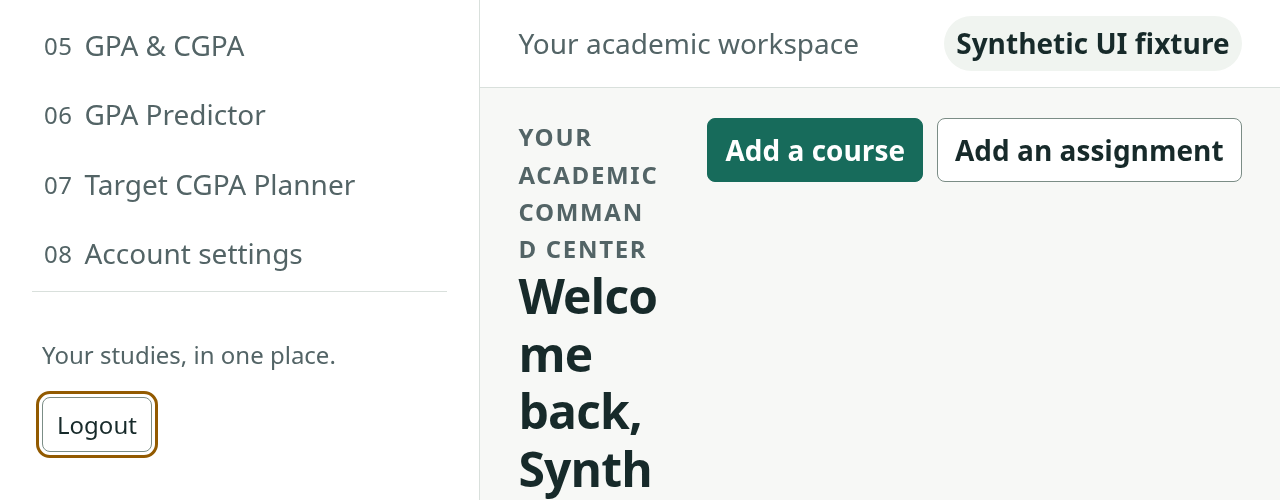
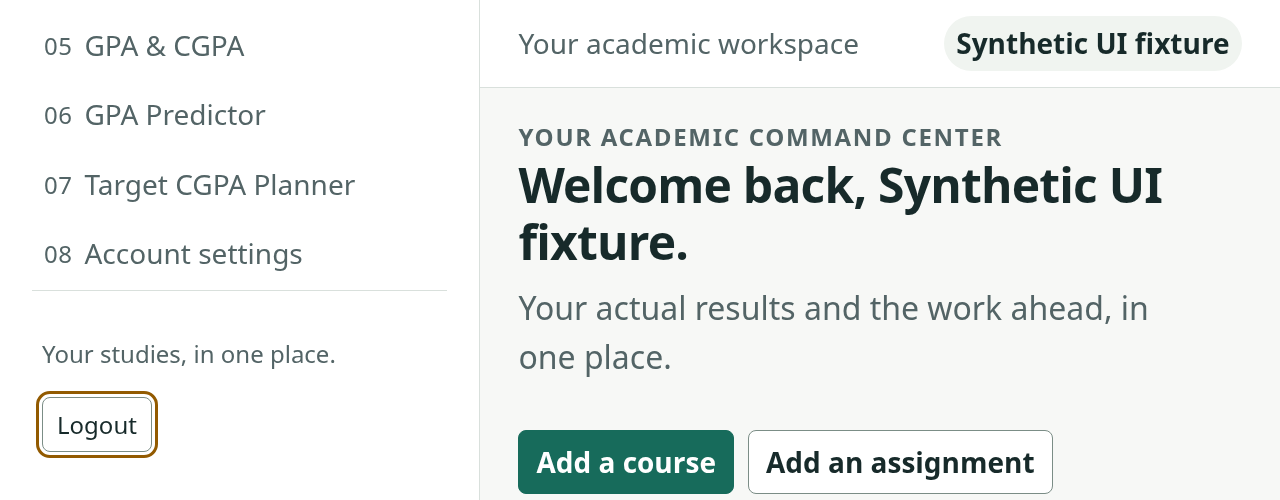
fix(ui): preserve enlarged heading readability and hash browser test dependencies

diff --git a/server/student_web/static/student_web/site.css b/server/student_web/static/student_web/site.css
@@ -13,6 +13,8 @@
   --color-border-subtle:#D9E0DC;
   --color-border-control:#7B8D86;
   --color-focus:#925A00;
+  --color-focus-inverse:#E8B75C;
+  --color-shadow:rgb(23 42 42 / 2%);
   --color-success-text:#146344;
   --color-success-bg:#E7F4EC;
   --color-warning-text:#7A4B00;
@@ -136,9 +138,9 @@ a,button,summary {
   background:var(--accent);
   color:var(--color-on-primary);
   border-radius:12px;
-  flex:0 0 42px;
-  width:42px;
-  height:42px;
+  flex:0 0 2.625rem;
+  width:2.625rem;
+  height:2.625rem;
   font-weight:800;
   letter-spacing:-1px
 }
@@ -170,6 +172,7 @@ a,button,summary {
   color:var(--color-active-text);
   font-weight:700
 }
+.nav-link.active:hover { text-decoration:underline; text-decoration-thickness:2px; }
 .nav-mark {
   font-size:.75rem;
   color:inherit;
@@ -256,7 +259,7 @@ a,button,summary {
 .hero .eyebrow {
   color:var(--color-inverse-text)
 }
-.hero :focus-visible { outline-color:#E8B75C; }
+.hero :focus-visible { outline-color:var(--color-focus-inverse); }
 .hero-link {
   color:var(--color-surface);
   font-weight:650
@@ -342,7 +345,7 @@ h3 {
   border-radius:var(--radius);
   margin-bottom:24px;
   min-width:0;
-  box-shadow:0 2px 6px #17243b03
+  box-shadow:0 2px 6px var(--color-shadow)
 }
 .two-columns {
   display:grid;
@@ -393,7 +396,7 @@ h3 {
   background:var(--color-error-text);
   border-color:var(--color-error-text)
 }
-.button.danger:hover { background:var(--color-error-text); border-color:var(--color-error-text); }
+.button.danger:hover { background:var(--color-error-text); border-color:var(--color-error-text); text-decoration:underline; }
 .button:disabled {
   opacity:.55;
   cursor:not-allowed
@@ -936,8 +939,7 @@ legend {
   .action-row>.button {
     width:100%
   }
-  .hero :focus-visible { outline-color:#E8B75C; }
-.hero-link {
+  .hero-link {
     padding:5px 0
   }
   .deadline-list li {
@@ -1006,9 +1008,11 @@ legend {
 }
 
 /* Existing page composition stays intact in UI1. */
-.dashboard-heading { align-items:flex-start; gap:var(--space-6); }
+/* Reserve readable heading space; actions move to a new row at text zoom. */
+.dashboard-heading { align-items:flex-start; flex-wrap:wrap; gap:var(--space-6); }
+.dashboard-heading > div:first-child { flex:1 1 28rem; min-width:0; }
 .dashboard-heading h1 { font-size:clamp(1.5rem,2.5vw,2rem); }
-.dashboard-heading .action-row { flex-shrink:0; margin:0; }
+.dashboard-heading .action-row { flex:0 1 auto; max-width:100%; margin:0; }
 .onboarding { border-left:4px solid var(--accent); margin-bottom:var(--space-6); }
 .onboarding h2 { margin-bottom:var(--space-2); }
 .onboarding ol { padding-left:var(--space-6); margin:var(--space-2) 0; }

diff --git a/tools/test_frontend_foundation_browser.py b/tools/test_frontend_foundation_browser.py
@@ -4,6 +4,9 @@ Requires test-only Playwright. Use --screenshots-dir to retain synthetic visual 
 This is CSS/HTML evidence; real PostgreSQL workflow tests run separately in web_tests.
 """
 import argparse
+import json
+import uuid
+from importlib.metadata import version
 import os
 import re
 from pathlib import Path
@@ -29,13 +32,13 @@ django.setup()
 from django.template.loader import render_to_string
 from django.test import RequestFactory, override_settings
 from student_web.context import navigation
-from student_web.forms import SemesterFilter
+from student_web.forms import SemesterFilter, CourseFilter, CourseForm
 from accounts.forms import BoundedAuthenticationForm
-from playwright.sync_api import sync_playwright
+from playwright.sync_api import sync_playwright, Error as PlaywrightError
 from types import SimpleNamespace
 
 
-def fixture_html(public=False):
+def fixture_html(public=False, scene=None):
     """Real navigation context and templates, explicitly empty synthetic workspace."""
     request = RequestFactory().get('/')
     request.student_identity = object()
@@ -53,6 +56,22 @@ def fixture_html(public=False):
         context.update(workspace_authenticated=False, title='Login', submit='Login',
                        form=BoundedAuthenticationForm())
         template = 'accounts/form.html'
+    if scene in ('courses', 'errors'):
+        semester = SimpleNamespace(pk=uuid.UUID(int=1), label='Synthetic test semester')
+        course = SimpleNamespace(pk=uuid.UUID(int=2), original_code='SYN-101', normalized_code='SYN-101',
+                                 name='Synthetic course for responsive testing', semester=semester,
+                                 credit_units='3.0000', actual_grade=None)
+        if scene == 'courses':
+            template = 'student_web/courses.html'
+            context.update(page=SimpleNamespace(items=[course], number=1, pages=1, total=1,
+                                                has_previous=False, has_next=False),
+                           filter=CourseFilter(semesters=[semester]))
+        else:
+            template = 'student_web/edit.html'
+            form = CourseForm(data={'name': '', 'original_code': 'SYN-101', 'credit_units': '0',
+                                    'semester_id': str(semester.pk), 'actual_grade': ''}, semesters=[semester])
+            form.is_valid()
+            context.update(kind='course', form=form, cancel_url='/courses/')
     html = render_to_string(template, context)
     asset = REPO / 'server/student_web/static/student_web'
     # Inline unchanged entry assets for static browser inspection; no external requests.
@@ -69,7 +88,13 @@ class FoundationBrowserTests(unittest.TestCase):
         executable = os.environ.get('UCC_CHROMIUM_EXECUTABLE')
         cls.browser = cls.driver.chromium.launch(headless=True, executable_path=executable,
                                                 args=['--disable-background-networking'])
-        print('Browser:', cls.browser.version, 'Django:', django.get_version())
+        print('Browser:', cls.browser.version, 'Django:', django.get_version(), 'Playwright:', version('playwright'))
+        if SCREENSHOTS:
+            (SCREENSHOTS / 'browser-metadata.json').write_text(json.dumps({
+                'browser': cls.browser.version, 'executable': executable or 'Playwright-managed Chromium',
+                'django': django.get_version(), 'playwright': version('playwright'),
+                'fixture': 'synthetic static templates, no live database',
+            }, indent=2) + '\n')
         cls.html = fixture_html()
         cls.public = fixture_html(public=True)
 
@@ -78,13 +103,13 @@ class FoundationBrowserTests(unittest.TestCase):
         cls.browser.close()
         cls.driver.stop()
 
-    def page(self, width, height, public=False, javascript=True, text_percent=100):
+    def page(self, width, height, public=False, javascript=True, text_percent=100, scene=None):
         context = self.browser.new_context(viewport={'width': width, 'height': height},
                                            java_script_enabled=javascript)
         self.addCleanup(context.close)
         context.set_default_timeout(3000)
         page = context.new_page()
-        html = self.public if public else self.html
+        html = fixture_html(scene=scene) if scene else (self.public if public else self.html)
         html = html.replace("</head>", f"<style>html {{font-size:{text_percent}%}}</style></head>")
         page.set_content(html)
         return page
@@ -171,6 +196,26 @@ class FoundationBrowserTests(unittest.TestCase):
                              .replace('</head>', f'<style>html {{font-size:{scale}%}}</style></head>'))
             self.assertLessEqual(page.evaluate('document.documentElement.scrollWidth'), width)
 
+    def painted_colors(self, locator, foreground='color'):
+        return locator.evaluate(r"""(e, foreground) => {
+            const parse = value => {
+                const m=value.match(/^rgba?\(([^)]+)\)$/);
+                if(!m) throw Error('Unsupported color: '+value);
+                const c=m[1].split(',').map(Number); if(c.length===3)c.push(1);
+                return c;
+            };
+            const blend=(front, back)=>front.slice(0,3).map((v,i)=>v*front[3]+back[i]*(1-front[3]));
+            let background=[255,255,255];
+            const ancestors=[];for(let n=e;n;n=n.parentElement)ancestors.unshift(n);
+            for(const n of ancestors){
+                const s=getComputedStyle(n);
+                if(s.backgroundImage!=='none'||s.opacity!=='1')throw Error('Unsupported compositing effect');
+                background=blend(parse(s.backgroundColor),background);
+            }
+            const ink=blend(parse(getComputedStyle(e)[foreground]),background);
+            return [ink,background].map(c=>'rgb('+c.join(',')+')');
+        }""", foreground)
+
     def test_rendered_shell_contrast_in_default_hover_and_focus_states(self):
         def luminance(value):
             if value.startswith('#'):
@@ -187,19 +232,94 @@ class FoundationBrowserTests(unittest.TestCase):
         page = self.page(1440, 900)
         for selector in ('body', '.nav-link.active', '.button:not(.secondary)', '.button.secondary'):
             with self.subTest(selector=selector):
-                colors = page.locator(selector).first.evaluate('(e)=>{const s=getComputedStyle(e);return [s.color,s.backgroundColor]}')
+                colors = self.painted_colors(page.locator(selector).first)
                 self.assertGreaterEqual(contrast(*colors), 4.5)
+        # Unselected navigation has a transparent background; resolve the sidebar beneath it.
+        self.assertGreaterEqual(contrast(*self.painted_colors(page.locator('.nav-link').nth(1))), 4.5)
         for selector in ('.nav-link', '.button:not(.secondary)', '.button.secondary'):
             page.locator(selector).first.hover()
-            colors = page.locator(selector).first.evaluate('(e)=>{const s=getComputedStyle(e);return [s.color,s.backgroundColor]}')
+            colors = self.painted_colors(page.locator(selector).first)
             self.assertGreaterEqual(contrast(*colors), 4.5)
+        page.locator('.nav-link.active').hover()
+        self.assertIn('underline', page.locator('.nav-link.active').evaluate('(e)=>getComputedStyle(e).textDecorationLine'))
         focus = page.locator('html').evaluate('(e)=>getComputedStyle(e).getPropertyValue("--color-focus").trim()')
         for selector in ('body', '.sidebar', '.nav-link.active'):
-            background = page.locator(selector).evaluate('(e)=>getComputedStyle(e).backgroundColor')
+            background = self.painted_colors(page.locator(selector))[1]
             self.assertGreaterEqual(contrast(focus, background), 3)
         page = self.page(360, 800, public=True)
-        colors = page.locator('input[name=username]').evaluate('(e)=>{const s=getComputedStyle(e);return [s.borderTopColor,s.backgroundColor]}')
+        colors = self.painted_colors(page.locator('input[name=username]'), 'borderTopColor')
         self.assertGreaterEqual(contrast(*colors), 3)
+
+    def test_contrast_composites_alpha_and_rejects_unsupported_effects(self):
+        page = self.page(1280, 800)
+        page.set_content('<body style="background:rgb(100,100,100)"><div style="background:transparent">'
+                         '<span style="color:rgba(0,0,0,.5)">Synthetic contrast probe</span></div></body>')
+        self.assertEqual(self.painted_colors(page.locator('span')), ['rgb(50,50,50)', 'rgb(100,100,100)'])
+        page.locator('span').evaluate('(e)=>e.style.backgroundImage="linear-gradient(black,white)"')
+        with self.assertRaises(PlaywrightError):
+            self.painted_colors(page.locator('span'))
+
+    def test_dashboard_heading_remains_readable_at_text_zoom(self):
+        for width in (1280, 1440):
+            for scale in (150, 200):
+                with self.subTest(width=width, text_percent=scale):
+                    page = self.page(width, 900, text_percent=scale)
+                    metrics = page.locator('.dashboard-heading').evaluate("""e => {
+                        const h=e.querySelector('h1'), r=h.getBoundingClientRect();
+                        const a=e.querySelector('.action-row').getBoundingClientRect();
+                        return {width:r.width, parent:e.clientWidth, height:r.height,
+                                line:parseFloat(getComputedStyle(h).lineHeight),
+                                headingBottom:r.bottom, actionsTop:a.top};
+                    }""")
+                    # A wide heading and at most three lines, not a narrow seven-line column.
+                    self.assertGreaterEqual(metrics['width'], metrics['parent'] * .7)
+                    self.assertLessEqual(metrics['height'], metrics['line'] * 3 + 1)
+                    self.assertGreaterEqual(metrics['actionsTop'], metrics['headingBottom'])
+                    self.assertLessEqual(page.evaluate('document.documentElement.scrollWidth'), width)
+                    for button in page.locator('.dashboard-heading .button').all():
+                        r = button.bounding_box()
+                        self.assertGreaterEqual(r['x'], 0)
+                        self.assertLessEqual(r['x'] + r['width'], width)
+                    if SCREENSHOTS:
+                        page.screenshot(path=str(SCREENSHOTS / f'heading-{width}-text-{scale}.png'))
+
+    def test_populated_table_and_invalid_form_reflow(self):
+        for width in (320, 768, 1280):
+            for scene in ('courses', 'errors'):
+                with self.subTest(width=width, scene=scene):
+                    page = self.page(width, 800, scene=scene)
+                    self.assertLessEqual(page.evaluate('document.documentElement.scrollWidth'), width)
+                    if scene == 'courses':
+                        region = page.get_by_role('region', name='Your course records')
+                        region.focus()
+                        self.assertTrue(region.evaluate('(e)=>e===document.activeElement'))
+                        self.assertEqual(page.get_by_role('link', name='Edit SYN-101').count(), 1)
+                        if width == 320:
+                            self.assertGreater(region.evaluate('(e)=>e.scrollWidth'), region.evaluate('(e)=>e.clientWidth'))
+                            page.keyboard.press('ArrowRight')
+                            page.wait_for_function('document.querySelector(".table-scroll").scrollLeft > 0')
+                    else:
+                        summary = page.locator('#error-summary')
+                        self.assertTrue(summary.evaluate('(e)=>e===document.activeElement'))
+                        for link in summary.locator('a[href^="#"]').all():
+                            self.assertTrue(page.locator(link.get_attribute('href')).is_visible())
+                        self.assertTrue(page.locator('[name=name]').is_visible())
+                    if SCREENSHOTS and width == 320:
+                        page.screenshot(path=str(SCREENSHOTS / f'{scene}-320.png'), full_page=True)
+
+    def test_reduced_motion_overrides_an_actual_motion_probe(self):
+        page = self.page(1280, 800)
+        # Test-only motion proves the preference rule, even while app CSS has no animation.
+        html = self.html.replace('<style>', '<style>#motion-probe {transition:transform 1s;scroll-behavior:smooth}</style><style>', 1)
+        html = html.replace('</body>', '<div id="motion-probe">Synthetic motion probe</div></body>')
+        page.set_content(html)
+        probe = page.locator('#motion-probe')
+        page.emulate_media(reduced_motion='no-preference')
+        self.assertEqual(probe.evaluate('(e)=>getComputedStyle(e).transitionDuration'), '1s')
+        self.assertEqual(probe.evaluate('(e)=>getComputedStyle(e).scrollBehavior'), 'smooth')
+        page.emulate_media(reduced_motion='reduce')
+        self.assertEqual(probe.evaluate('(e)=>getComputedStyle(e).transitionDuration'), '0s')
+        self.assertEqual(probe.evaluate('(e)=>getComputedStyle(e).scrollBehavior'), 'auto')
 
     def test_forced_colors_focus_and_light_theme_scope(self):
         page = self.page(1280, 500)

diff --git a/docs/design/BROWSER_TEST_DEPENDENCIES.md b/docs/design/BROWSER_TEST_DEPENDENCIES.md
@@ -1,0 +1,36 @@
+# UI1 browser-test dependency policy and reproducibility limits
+
+Test tooling only; never part of the application image or request path. Python 3.12, Playwright 1.65.0. Install **both** the existing Django lock and the new browser-test lock. Do not install Playwright directly from an unpinned dependency expression.
+
+```sh
+python -m pip install --require-hashes -r requirements-django-lock.txt
+python -m pip install --require-hashes --only-binary=:all: -r requirements-browser-test-lock.txt
+python -m pip check
+python -m playwright install --with-deps chromium
+python -m playwright install --list
+python tools/test_frontend_foundation_browser.py --screenshots-dir work/ui1-evidence -v
+```
+
+`requirements-browser-test.txt` is the human-maintained input. `requirements-browser-test-lock.txt` pins **Playwright and its complete resolved Python dependency set**, currently greenlet, with SHA-256 hashes generated from the package index. No runtime lock changes. The wheel-only install fails rather than running an unreviewed source build when a platform has no wheel. Hashes constrain downloaded artifacts; they do not prove upstream packages are trustworthy or free of vulnerabilities.
+
+Regenerate with the same repository workflow: Python 3.12 and pip-tools **7.6.2**, reviewing the complete diff. Keep tool installation in a private development environment, separate from application runtime:
+
+```sh
+pip-compile --generate-hashes --no-emit-index-url --output-file=requirements-browser-test-lock.txt --strip-extras requirements-browser-test.txt
+```
+
+Re-running without an upgrade should preserve the lock; upstream dependency updates require intentional regeneration/review. This is a package-artifact lock, not a hermetic operating-system build. The CI `dependency-audit` job audits **all three hashed locks** (legacy runtime, Django runtime and browser-test) with strict/hash validation; there is no browser dependency audit exemption. No finding is silently ignored. The browser job uses Ubuntu **24.04**, pinned checkout/setup-python actions, the existing workflow-wide `contents: read` permission and `persist-credentials: false`; it has no application database credentials, service-account secrets or deployment authority.
+
+## Browser binaries and OS libraries are a separate trust boundary
+
+The hashed Playwright Python wheel includes its driver/Node runtime and a manifest of browser revisions. `python -m playwright install --with-deps chromium` runs that locked driver's installer. It downloads the matching Chromium/headless-shell and associated artifacts over HTTPS from Playwright's configured distribution endpoints, and installs required Linux packages using the runner's package manager. The package manager can use root on the disposable hosted runner. None of this runs on a deployed application or changes a student's computer.
+
+Important limitations:
+
+- The Python lock's hashes **do not validate browser archives**. Playwright selects package-associated revisions and uses HTTPS/download handling, but this repository supplies no independent browser archive SHA-256 lock/signature verification. CDN availability, upstream release provenance and the locked installer remain trust dependencies. We do not disable TLS validation or configure an alternate download host.
+- `--with-deps` invokes apt for system libraries. Repository signatures and Ubuntu's package-management trust apply; exact `.deb` versions and repository snapshots are **not** pinned here. Ubuntu 24.04 hosted images also receive updates. This is not bit-for-bit reproducible CI.
+- The existing setup-python action selects the latest available Python 3.12 patch. Local system Chromium selected with `UCC_CHROMIUM_EXECUTABLE` may differ from the Playwright-managed build used by CI. Neither a common package version nor matching image dimensions proves identical rendering.
+- pip-audit checks Python advisories, **not** Chromium/Node/OS CVEs, browser provenance or sandbox strength. Keep Playwright and its managed browsers updated through reviewed lock changes; runner updates and browser/OS advisories need separate maintenance. An immutable test image plus independently verified browser digests/OS snapshots is a possible later hardening step, not claimed here.
+- Tests render only synthetic HTML and permit no application data or credentials. Installing a browser is not deployment. Do not reuse the test environment as production infrastructure or treat these tests as a penetration test.
+
+CI prints the installed browser inventory and the launched browser version. Screenshot generation additionally records `browser-metadata.json` containing actual executable choice, browser version, Playwright/Django versions and fixture type. Retain that manifest with published evidence; do not label system-Chromium screenshots with a managed-browser version or carry forward an old version by assumption.
